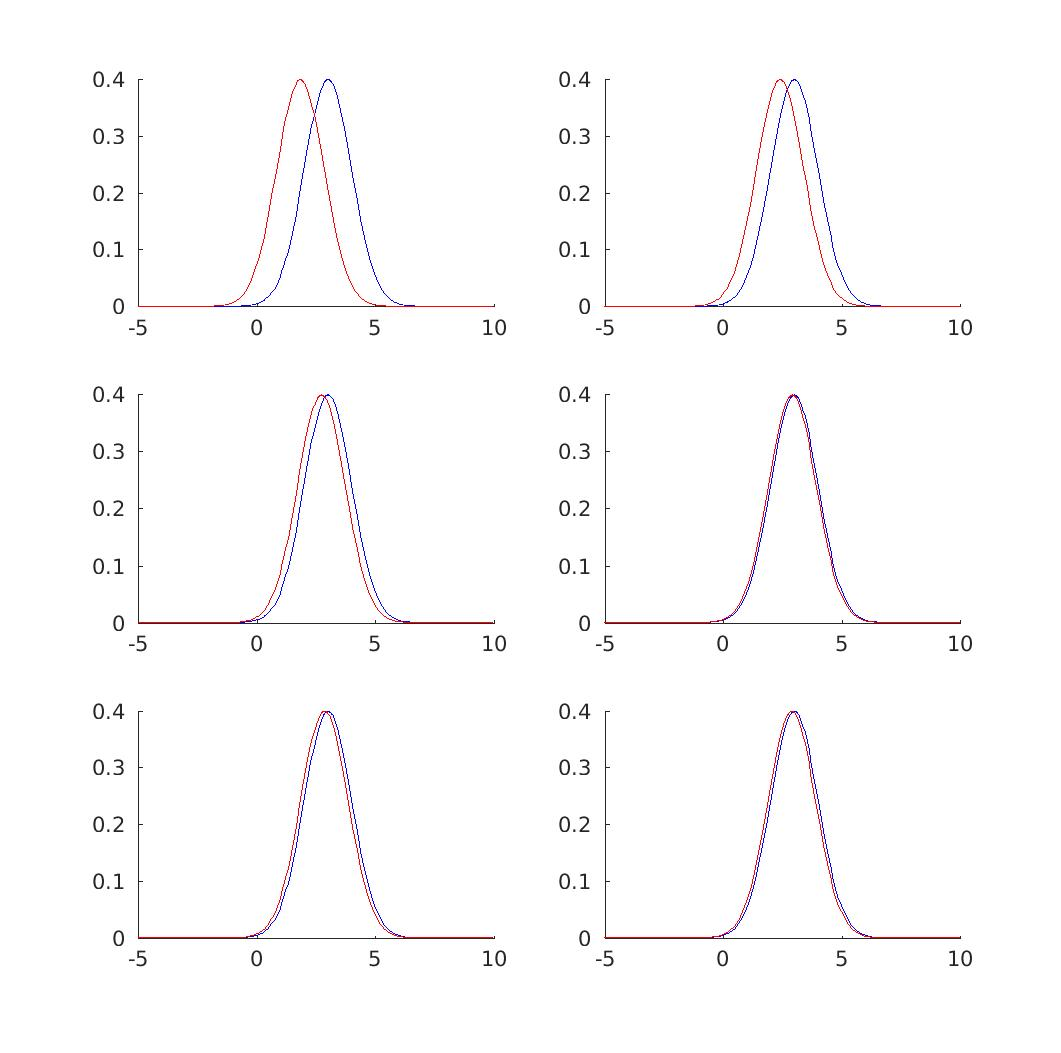
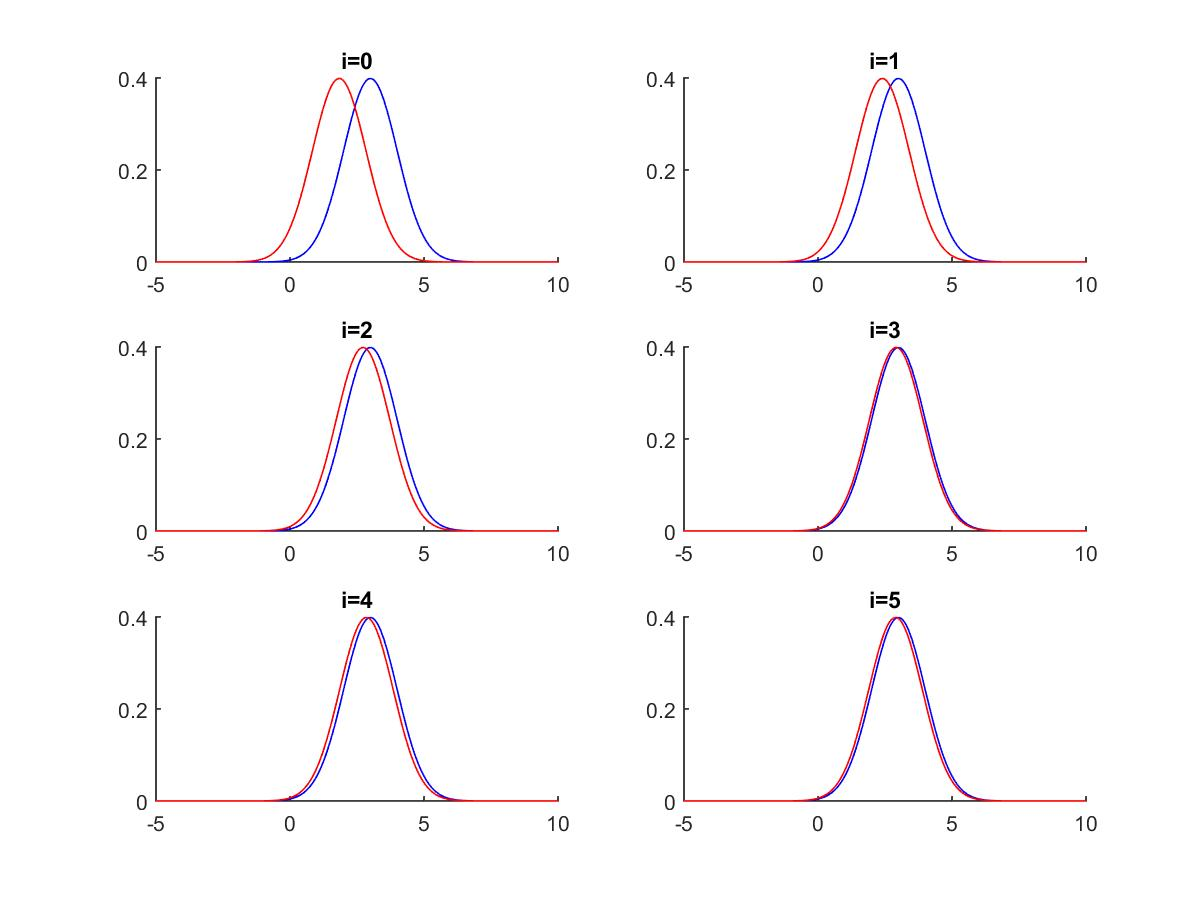
Überschriften für Plots eingefügt

diff --git a/Blatt_4/material/A3.m b/Blatt_4/material/A3.m
@@ -34,36 +34,42 @@ subplot(3,2,1);
 hold on;
 fplot(afunc,[-5 10], 'b')
 fplot(i0func,[-5 10], 'r')
+title('i=0');
 hold off;
 
 subplot(3,2,2);
 hold on;
 fplot(afunc,[-5 10], 'b')
 fplot(i1func,[-5 10], 'r')
+title('i=1');
 hold off;
 
 subplot(3,2,3);
 hold on;
 fplot(afunc,[-5 10], 'b')
 fplot(i2func,[-5 10], 'r')
+title('i=2');
 hold off;
 
 subplot(3,2,4);
 hold on;
 fplot(afunc,[-5 10], 'b')
 fplot(i3func,[-5 10], 'r')
+title('i=3');
 hold off;
 
 subplot(3,2,5);
 hold on;
 fplot(afunc,[-5 10], 'b')
 fplot(i4func,[-5 10], 'r')
+title('i=4');
 hold off;
 
 subplot(3,2,6);
 hold on;
 fplot(afunc,[-5 10], 'b')
 fplot(i5func,[-5 10], 'r')
+title('i=5');
 hold off;
 print(figure(1), '-djpeg', strcat('../plots/ApproxVsBayes.jpg'));
 %%
